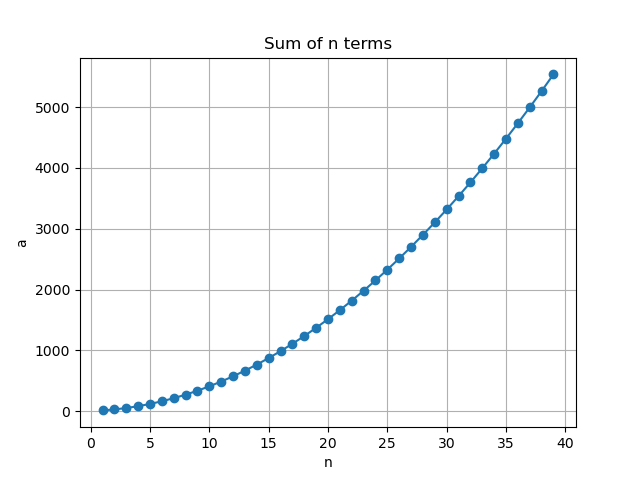
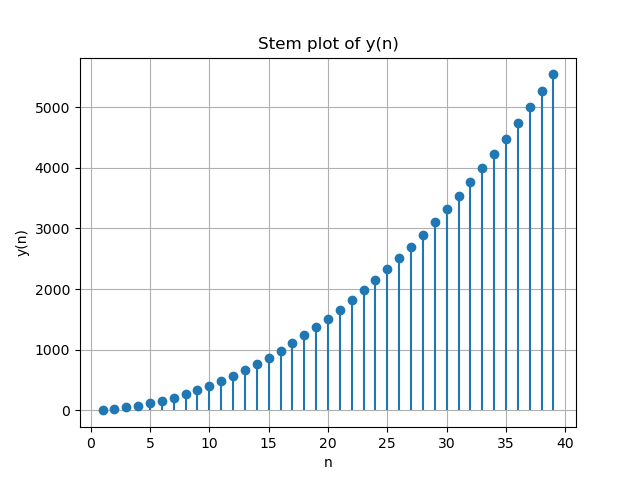
new8

diff --git a/assign2/python/sumplot.py b/assign2/python/sumplot.py
@@ -4,13 +4,13 @@ def calculate_a(n_values, d):
     return [((n + 1) / 2) * (4 + 7 * n) for n in n_values]
 
 def plot_function(n_values, a_values):
-    plt.plot(n_values, a_values, marker='o', linestyle='-')
+    plt.stem(n_values, a_values, linefmt='-', markerfmt='o', basefmt=' ')
     plt.xlabel('n')
-    plt.ylabel('a')
-    plt.title('Plot of a=((n+1)/2)*(4+7*n)')
+    plt.ylabel('y(n)')
+    plt.title('Stem plot of y(n)')
     plt.grid(True)
     plt.show()
-    plt.sav
+    plt.savefig('sumplot.png')
 
 # Define the range of n values (only integral values)
 n_values = range(1, 40, 1)  
@@ -23,3 +23,4 @@ a_values = calculate_a(n_values, d)
 
 # Plot the function
 plot_function(n_values, a_values)
+
